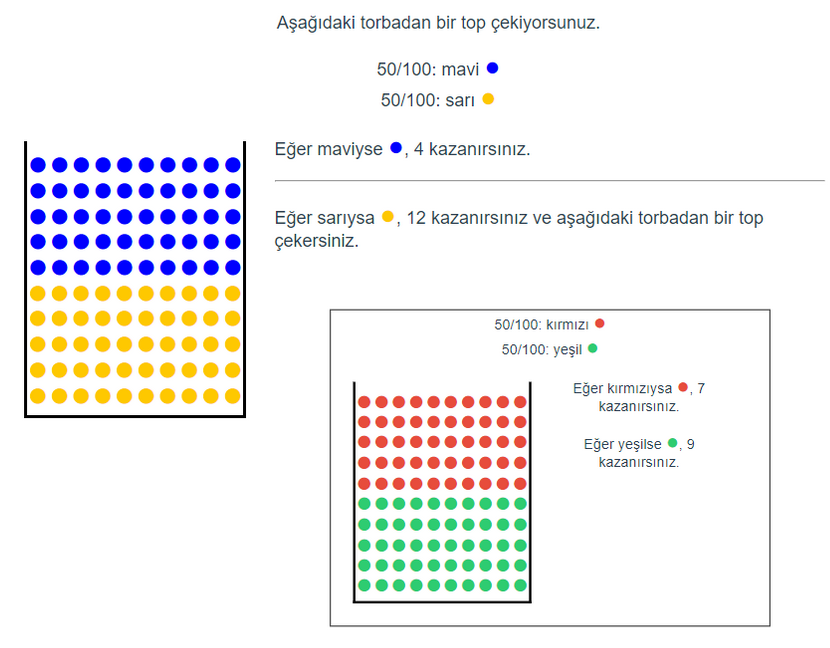
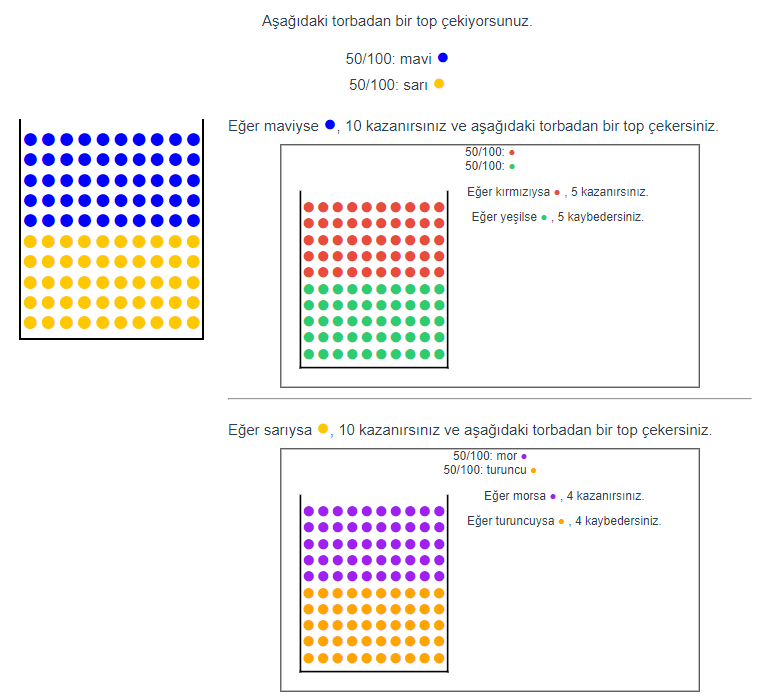
toptext alignment, updated tutorial, updated innerbag

Changed region(s): [[0.0, 0.0, 0.9382, 1.0]]

diff --git a/src/components/subcomponents/TemperanceChoice.vue b/src/components/subcomponents/TemperanceChoice.vue
@@ -1,13 +1,15 @@
 <template>
   <div class="container">
-    <p>Aşağıdaki torbadan bir top çekiyorsunuz.</p>
-    <div>
-      <span>{{ numberOf1 }}/100: mavi </span>
-      <span :style="{ color: color1 }" class="ball"> ● </span>
-    </div>
-    <div>
-      <span>{{ 100 - numberOf1 }}/100: sarı </span>
-      <span :style="{ color: color2 }" class="ball"> ● </span>
+    <div class="top-bag">
+      <p>Aşağıdaki torbadan bir top çekiyorsunuz.</p>
+      <div>
+        <span>{{ numberOf1 }}/100: mavi </span>
+        <span :style="{ color: color1 }" class="ball"> ● </span>
+      </div>
+      <div>
+        <span>{{ 100 - numberOf1 }}/100: sarı </span>
+        <span :style="{ color: color2 }" class="ball"> ● </span>
+      </div>
     </div>
     <div class="bag-container">
       <BagOfBalls
@@ -71,6 +73,8 @@
           "
           colorName1="kırmızıysa"
           colorName2="yeşilse"
+          colorName1short="kırmızı"
+          colorName2short="yeşil"
         />
         <InnerBag
           :color1="color5"
@@ -83,6 +87,8 @@
           "
           colorName1="morsa"
           colorName2="turuncuysa"
+          colorName1short="mor"
+          colorName2short="turuncu"
         />
       </div>
     </div>
@@ -146,5 +152,12 @@ p {
 
 .result-text {
   text-align: start;
+}
+
+.top-bag {
+  align-items: flex-start;
+  display: flex;
+  flex-direction: column;
+  margin-left: 25px;
 }
 </style>

diff --git a/src/components/Tutorial2.vue b/src/components/Tutorial2.vue
@@ -13,16 +13,25 @@
         elli mavi top ve elli sarı top olan bir torbadan rastgele bir top
         çekiyorsunuz.
       </p>
-      <p>Eğer bu ilk top mavi ise <b>4 puan</b> kazanırsınız.</p>
       <p>
-        Eğer bu ilk top sarı ise <b>12 puan</b> kazanırsıniz ve bunun yanında,
+        Eğer bu ilk top mavi ise <b>10 puan</b> kazanırsınız ve bunun yanında,
         içerisinde 50 kırmızı ve 50 yeşil top olan başka bir torbadan bir top
         daha çekersiniz.
       </p>
       <p>
-        Bu ikinci topu çekmeniz durumunda, top kırmızıysa <b>7 puan</b> daha
-        (yani toplam 7+12, 19 puan), top yeşilse <b>9 puan</b> daha (yani toplam
-        9+12, 21 puan) kazanırsınız.
+        Bu ikinci topu çekmeniz durumunda, top kırmızıysa <b>5 puan</b> daha
+        (yani toplam 10+5 = 15 puan) kazanırsınız, top yeşilse
+        <b>5 puan</b> kaybedersiniz (yani toplam 10-5 = 5 puan kazanırsınız) .
+      </p>
+      <p>
+        Eğer bu ilk top sarı ise <b>10 puan</b> kazanırsıniz ve bunun yanında,
+        içerisinde 50 mor ve 50 turuncu top olan başka bir torbadan bir top daha
+        çekersiniz.
+      </p>
+      <p>
+        Bu ikinci topu çekmeniz durumunda, top morsa <b>4 puan</b> daha (yani
+        toplam 10+4 = 14 puan) kazanırsınız, top turuncuysa
+        <b>4 puan</b> kaybedersiniz (yani toplam 10-4 = 6 puan kazanırsınız) .
       </p>
     </div>
   </div>

diff --git a/src/components/subcomponents/PrudenceChoice.vue b/src/components/subcomponents/PrudenceChoice.vue
@@ -1,13 +1,15 @@
 <template>
   <div class="container">
-    <p>Aşağıdaki torbadan bir top çekiyorsunuz.</p>
-    <div>
-      <span>{{ numberOf1 }}/100: mavi </span>
-      <span :style="{ color: color1 }" class="ball"> ● </span>
-    </div>
-    <div>
-      <span>{{ 100 - numberOf1 }}/100: sarı </span>
-      <span :style="{ color: color2 }" class="ball"> ● </span>
+    <div class="top-bag">
+      <p>Aşağıdaki torbadan bir top çekiyorsunuz.</p>
+      <div>
+        <span>{{ numberOf1 }}/100: mavi </span>
+        <span :style="{ color: color1 }" class="ball"> ● </span>
+      </div>
+      <div>
+        <span>{{ 100 - numberOf1 }}/100: sarı </span>
+        <span :style="{ color: color2 }" class="ball"> ● </span>
+      </div>
     </div>
     <div class="bag-container">
       <BagOfBalls

diff --git a/src/components/subcomponents/InnerBag.vue b/src/components/subcomponents/InnerBag.vue
@@ -1,11 +1,11 @@
 <template>
   <div class="inner">
     <div>
-      <span>{{ numberOf1 }}/100: kırmızı </span>
+      <span>{{ numberOf1 }}/100: {{ colorName1short }} </span>
       <span :style="{ color: color1 }" class="ball"> ● </span>
     </div>
     <div>
-      <span>{{ 100 - numberOf1 }}/100: yeşil </span>
+      <span>{{ 100 - numberOf1 }}/100: {{ colorName2short }} </span>
       <span :style="{ color: color2 }" class="ball"> ● </span>
     </div>
     <div class="bag-container">
@@ -52,6 +52,8 @@ const props = defineProps({
   chosenBall: Number,
   colorName1: String,
   colorName2: String,
+  colorName1short: String,
+  colorName2short: String,
 });
 </script>
 

diff --git a/src/App.vue b/src/App.vue
@@ -269,7 +269,6 @@ footer {
   position: fixed;
   width: 100%;
   bottom: 0px;
-  /* top: calc(100% - 56px); */
   height: 55px;
   left: 0px;
   text-align: right;
